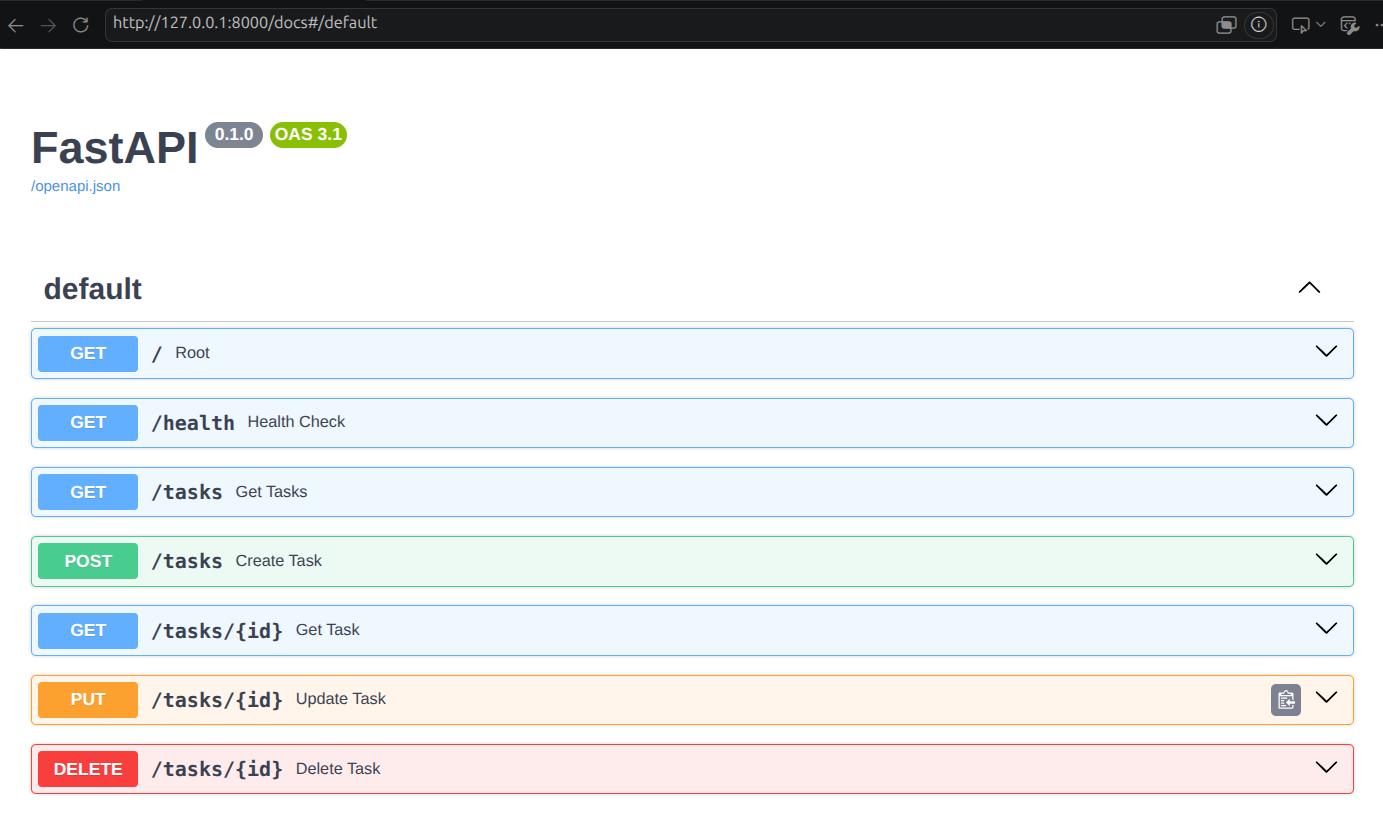
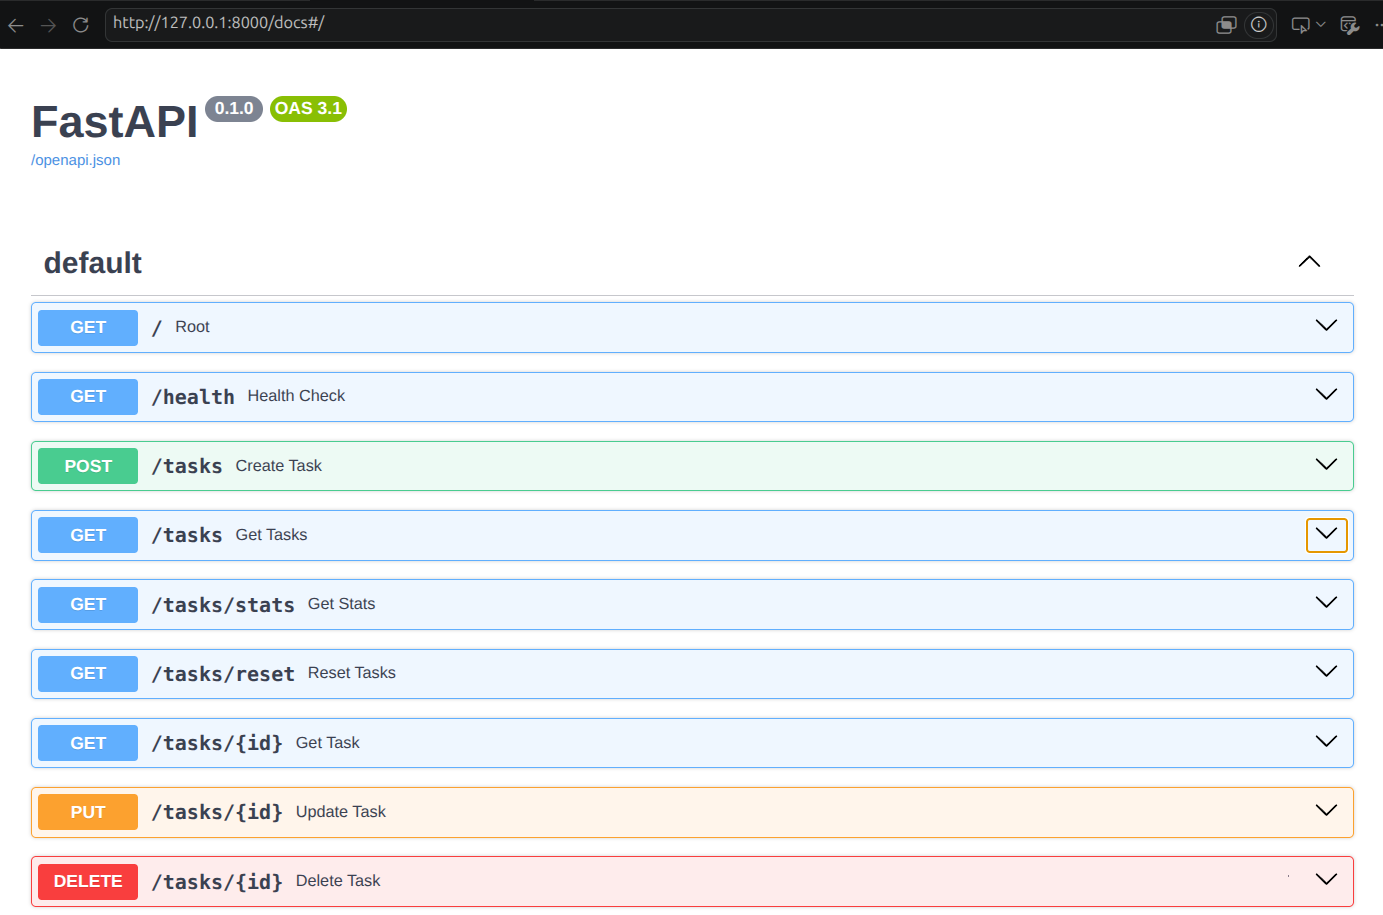
readme.md improve

Changed region(s): [[0.0, 0.2809, 0.9949, 0.9988], [0.0, 0.0, 1.0, 0.0624], [0.0, 0.0936, 0.2487, 0.2497]]

diff --git a/README.md b/README.md
@@ -6,6 +6,8 @@ A simple RESTful To-Do List API built with **FastAPI** that uses an **in-memory 
 
 - Create a new task
 - Retrieve all tasks
+- Calculate tasks stats
+- Reset to inital tasks
 - Retrieve a task by ID
 - Update an existing task
 - Delete a task
@@ -90,9 +92,13 @@ curl -X POST http://localhost:8000/tasks \
 |---------|----------|-------------|
 | POST | `/tasks` | Create a new task |
 | GET | `/tasks` | Retrieve all tasks |
+| GET | `/tasks/stats` | Give tasks stats |
+| GET | `/tasks/reset` | Reset to inital tasks |
 | GET | `/tasks/{id}` | Retrieve a task by ID |
 | PUT | `/tasks/{id}` | Update an existing task |
 | DELETE | `/tasks/{id}` | Delete a task |
+
+
 
 ---
 
